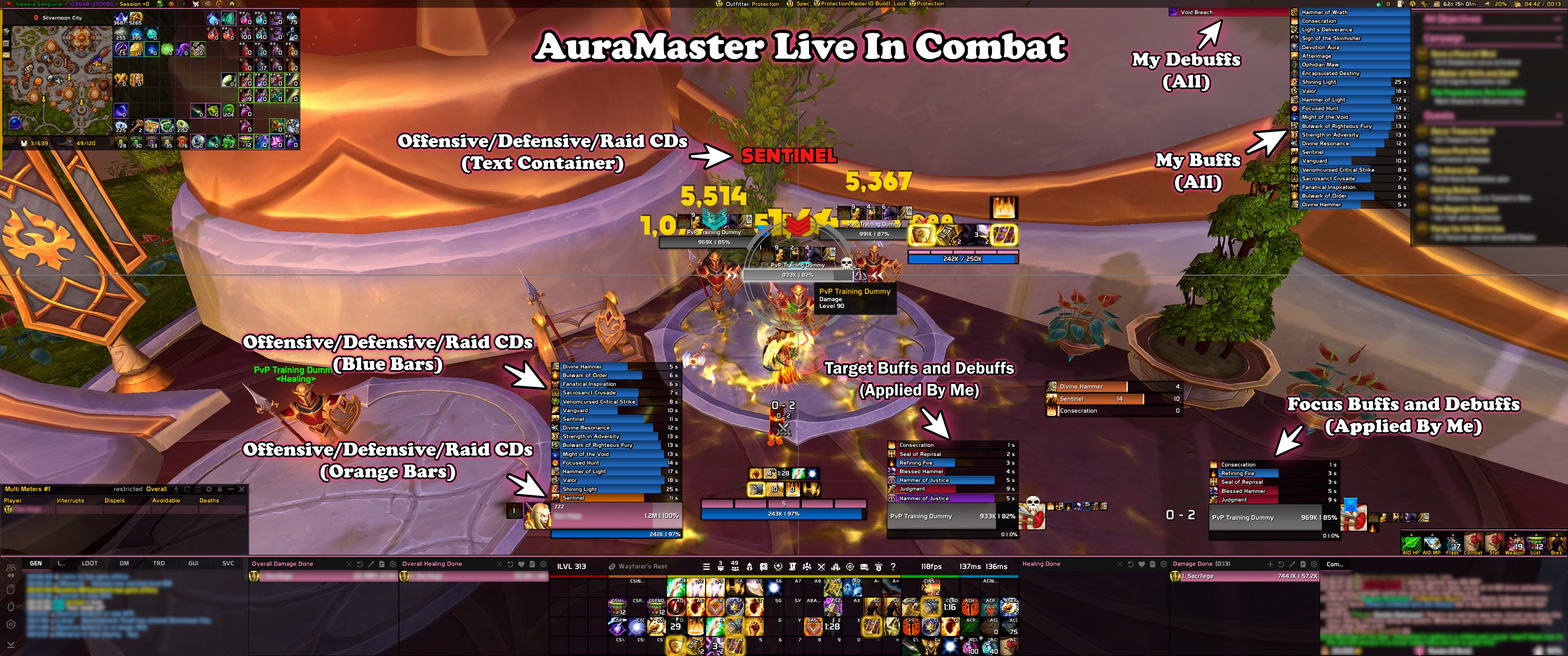
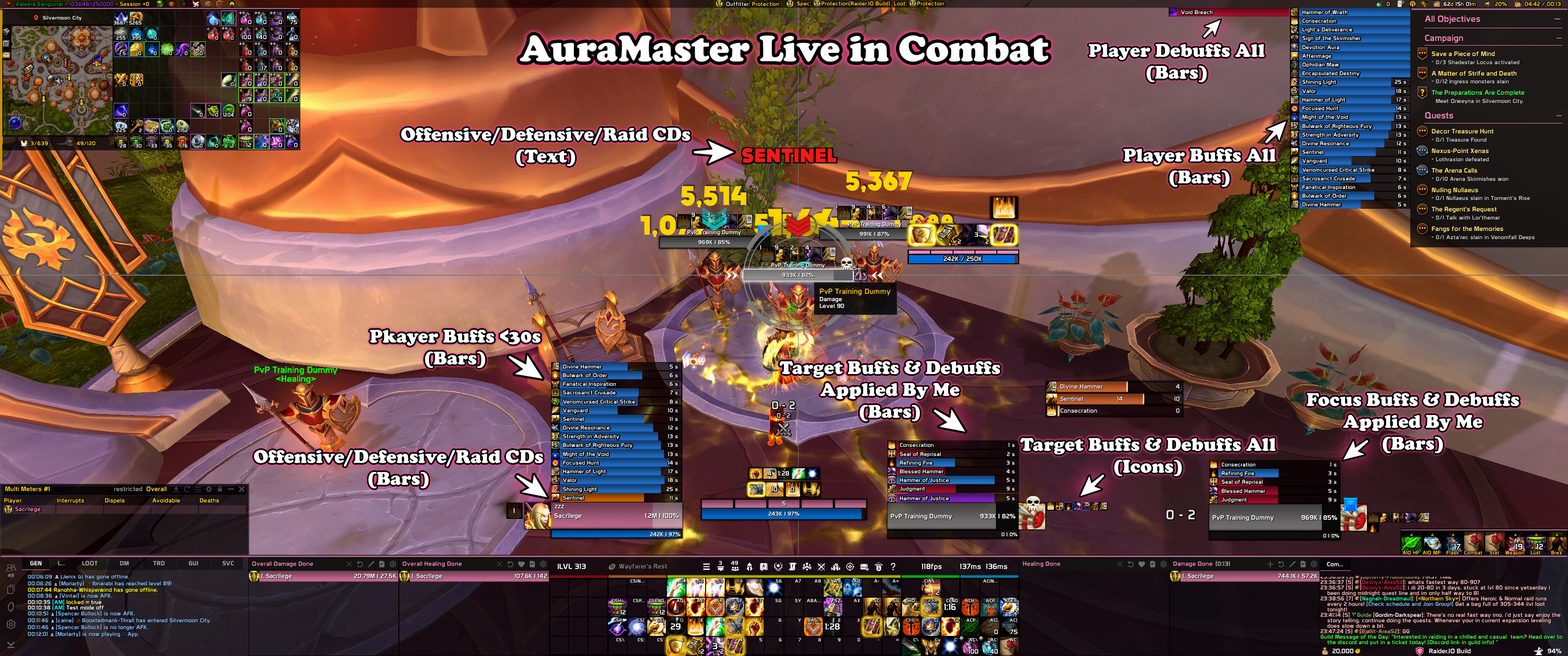
README: refresh the in-combat screenshot
A new capture of the live-in-combat screenshot (01, both the JPEG and the PNG original), and the
README's first screenshot now links its new CurseForge upload.

Claude-Session: https://claude.ai/code/session_0137w2iyvwbPYwaYca4pi2Bz

diff --git a/README.md b/README.md
@@ -21,7 +21,7 @@ can sit anywhere on screen, or attach to another container or to any in-game fra
 
 **_AuraMaster live in combat_**
 
-![AuraMaster live in combat](https://media.forgecdn.net/attachments/1979/410/auramaster-screenshot-01-jpg.jpg)
+![AuraMaster live in combat](https://media.forgecdn.net/attachments/1979/767/auramaster-screenshot-01-jpg.jpg)
 _[Watch on YouTube](https://www.youtube.com/watch?v=lJoZiVA_SBE)_
 
 **_Unlocked Mode_**
